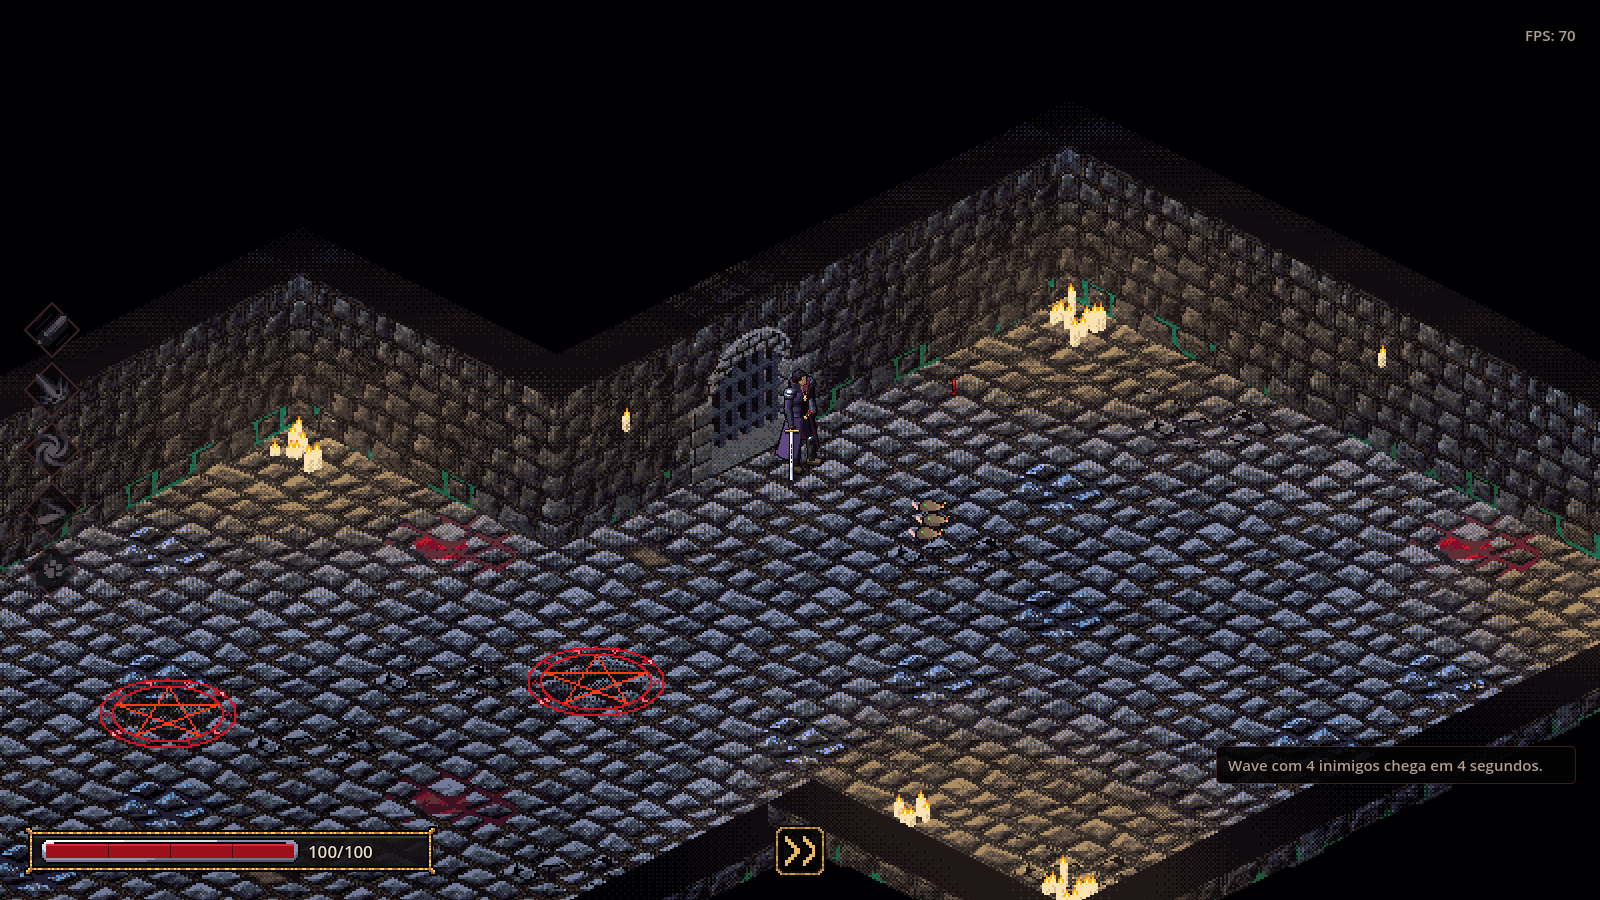
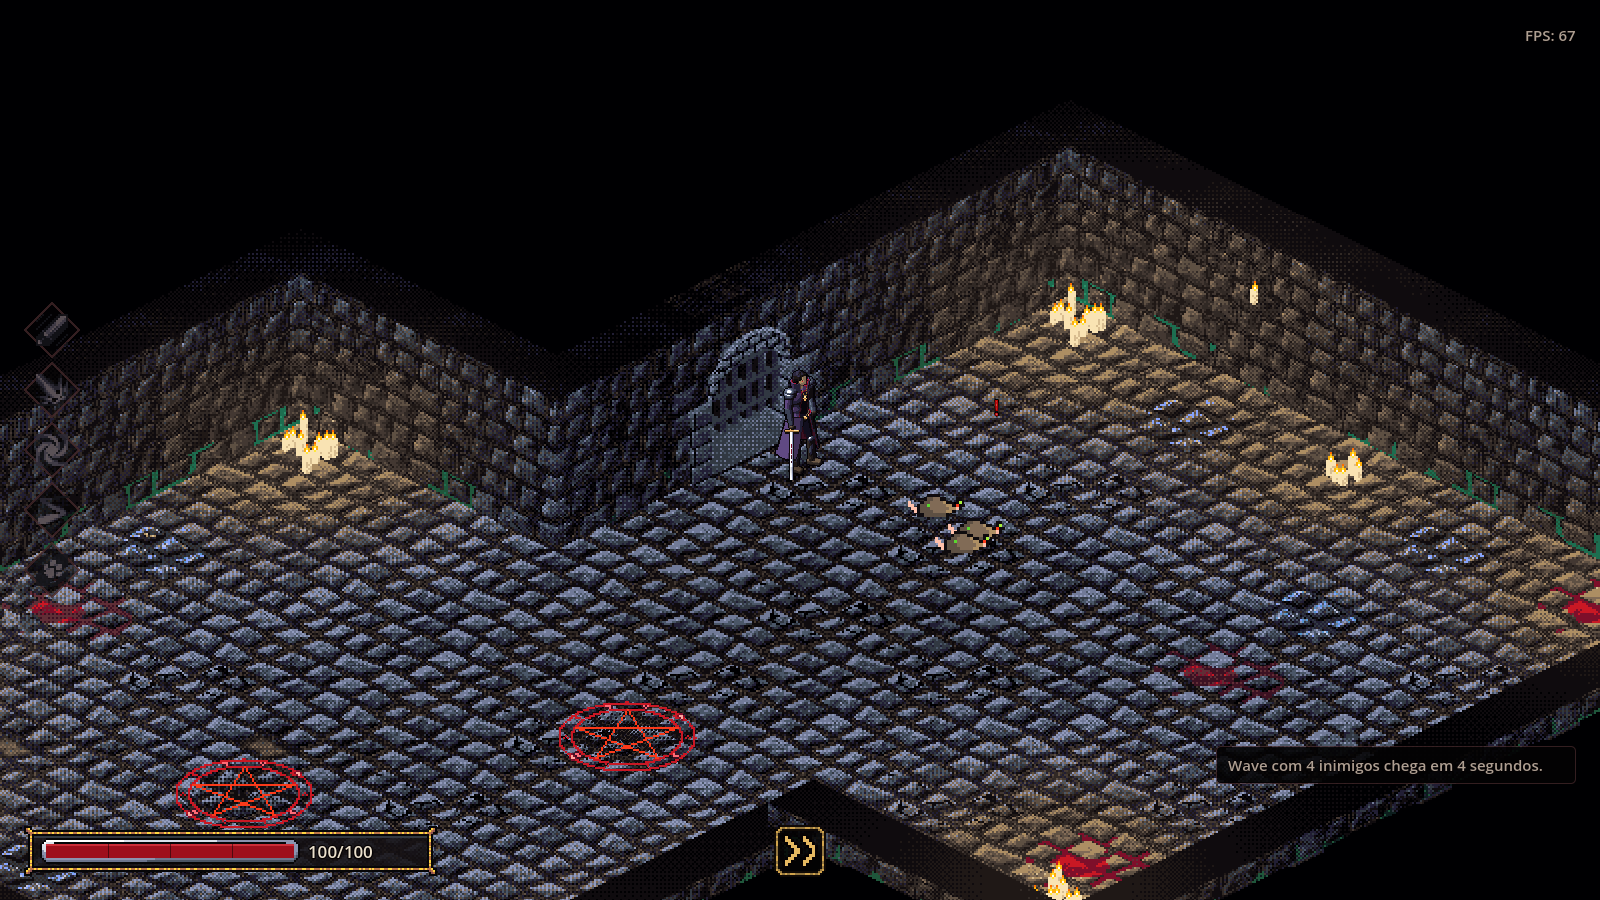
chore: capturas do rato v2

diff --git a/scripts/ui/HUD.Notifications.cs b/scripts/ui/HUD.Notifications.cs
@@ -354,7 +354,8 @@ public partial class HUD
 		{
 			var rat = new SummonedRat { OwnerPlayer = player, LifetimeSeconds = 8.0f, AttackDamage = 0.0f };
 			GetTree().CurrentScene.AddChild(rat);
-			rat.GlobalPosition = player.GlobalPosition + new Vector3(0.8f + 0.5f * i, 0.08f, 0.5f * (i - 1));
+			// Distâncias diferentes do Virgil (0,8 / 2,2 / 3,6 m): os mais longe já estão a caminho do inimigo.
+			rat.GlobalPosition = player.GlobalPosition + new Vector3(0.8f + 1.4f * i, 0.08f, 0.5f * (i - 1));
 		}
 	}
 

diff --git a/scripts/ui/UiPreview.cs b/scripts/ui/UiPreview.cs
@@ -225,7 +225,8 @@ public partial class UiPreview : Node
 		}
 
 		_settleElapsed += delta;
-		if (_settleElapsed < BatchSettleSeconds)
+		// summoned_rat_2 espera mais, para pegar os ratos já correndo até o inimigo.
+		if (_settleElapsed < (job.Screen == "summoned_rat_2" ? 1.2f : BatchSettleSeconds))
 			return;
 		CaptureBatchShot(job);
 		NextBatchJob();
